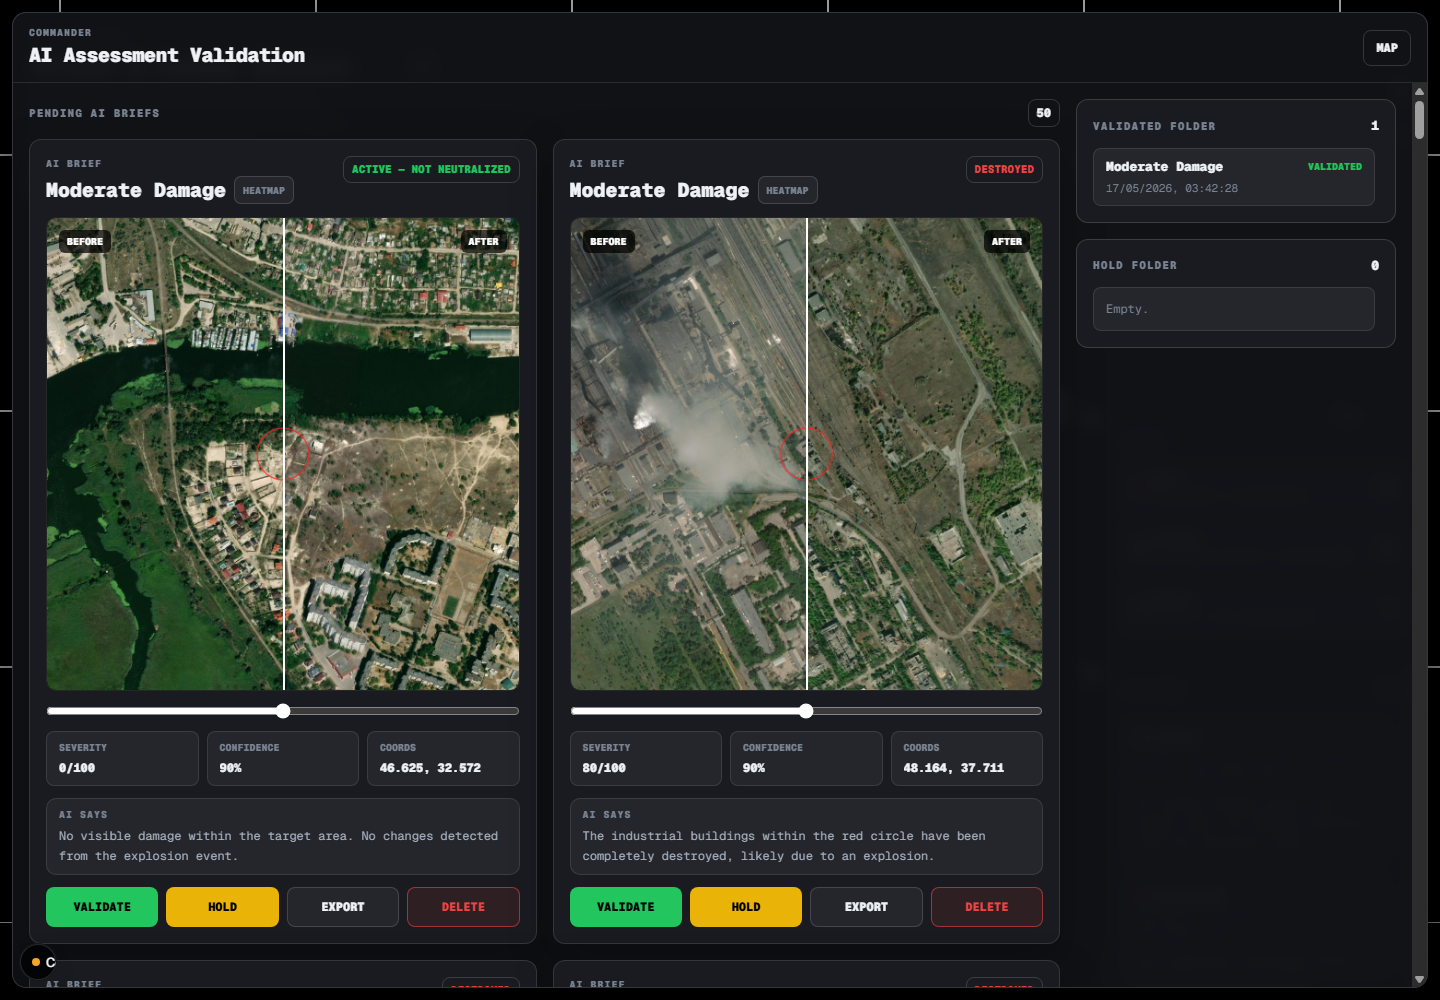
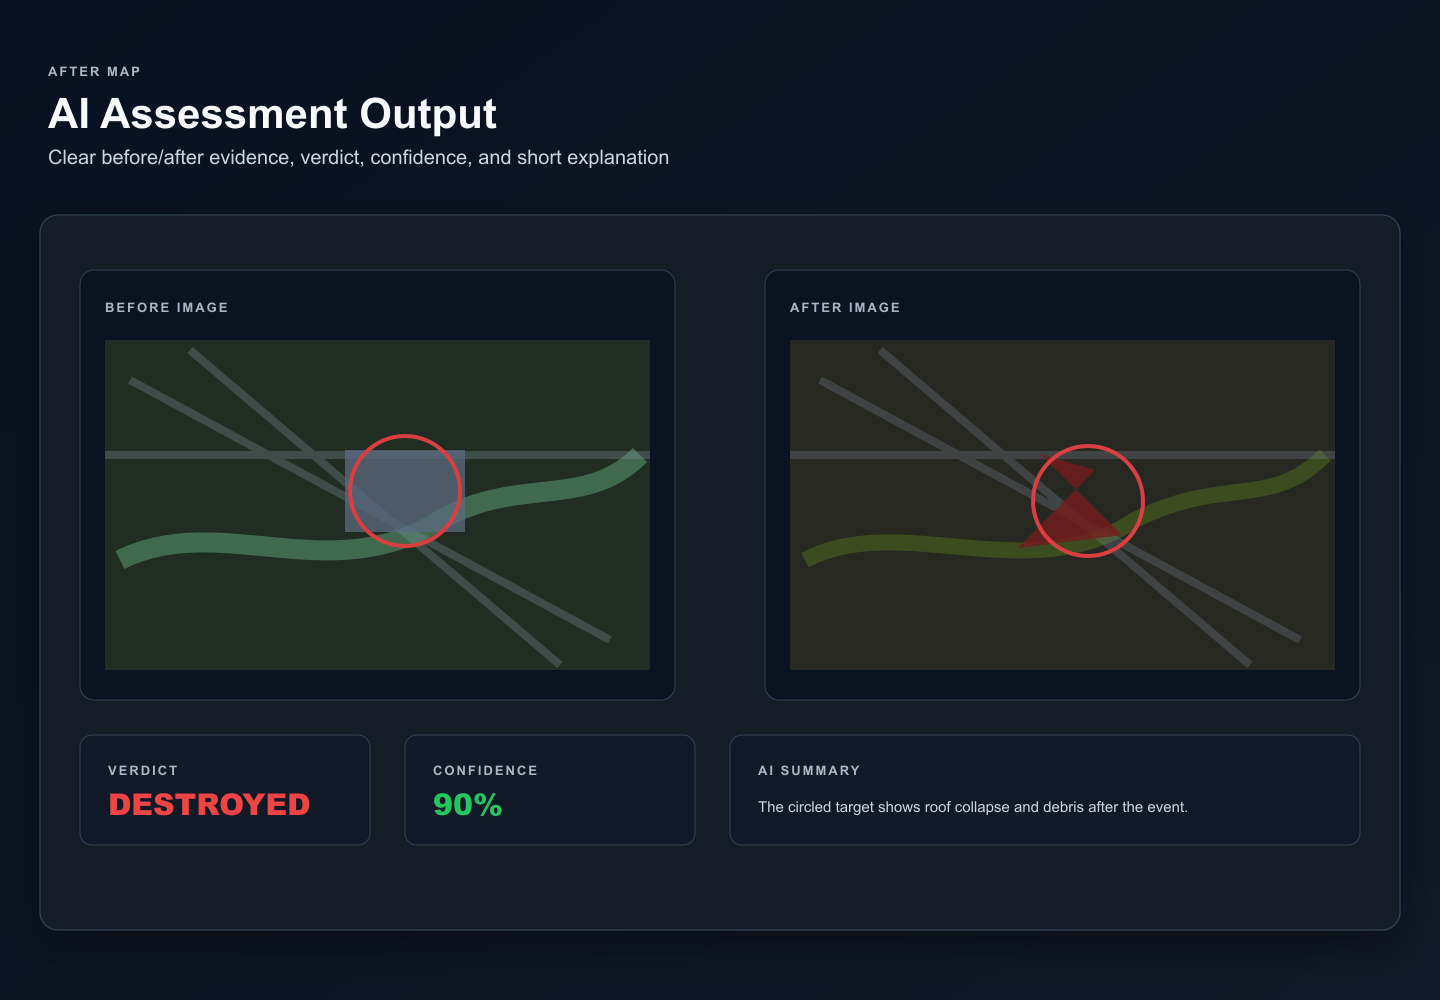
Improve setup docs and README screenshots

diff --git a/README.md b/README.md
@@ -126,10 +126,10 @@ This is version one. The pipeline is modular.
 
 | Component | Technology |
 |-----------|-----------|
-| Framework | Next.js 14 (App Router), TypeScript |
+| Framework | Next.js 16 (App Router), TypeScript |
 | Satellite imagery | ESA Sentinel-2 L2A via [Sentinel Hub Process API](https://www.sentinel-hub.com) |
 | Damage dataset | [UNOSAT Ukraine / Zenodo](https://zenodo.org/records/11385161) |
-| AI model | Claude (Anthropic) — multimodal vision |
+| AI model | OpenAI vision model via the Responses API |
 | Map | Custom slippy map, Esri World Imagery basemap |
 | Change detection | Client-side canvas pixel diff + Sobel edge strength heatmap |
 
@@ -151,17 +151,83 @@ npm install
 cp .env.example .env.local
 ```
 
-Fill in `.env.local`:
-- `ANTHROPIC_API_KEY` — from [console.anthropic.com](https://console.anthropic.com)
-- `SENTINELHUB_CLIENT_ID` + `SENTINELHUB_CLIENT_SECRET` — free account at [sentinel-hub.com](https://www.sentinel-hub.com), create an OAuth client
+Fill in `.env.local` with the credentials below. The file must be in the project root, next to `package.json`.
 
-### 3. Run
+```env
+OPENAI_API_KEY=your-openai-api-key-here
+OPENAI_MODEL=gpt-4.1-mini
+
+SENTINELHUB_CLIENT_ID=your-sentinel-hub-client-id
+SENTINELHUB_CLIENT_SECRET=your-sentinel-hub-client-secret
+SENTINELHUB_BASE_URL=https://services.sentinel-hub.com
+```
+
+Never commit `.env.local`. It is already ignored by Git.
+
+### 3. Where to get API keys
+
+#### OpenAI
+
+Used for AI image analysis in `/api/review`.
+
+1. Create or log in to an OpenAI Platform account: [https://platform.openai.com](https://platform.openai.com)
+2. Open the API keys page: [https://platform.openai.com/api-keys](https://platform.openai.com/api-keys)
+3. Click **Create new secret key**.
+4. Copy the key into `.env.local` as:
+
+```env
+OPENAI_API_KEY=your-openai-api-key-here
+```
+
+Official guide: [Where do I find my OpenAI API key?](https://help.openai.com/en/articles/4936850-where-do-i-find-my-openai-api-key)
+
+Optional model setting:
+
+```env
+OPENAI_MODEL=gpt-4.1-mini
+```
+
+Leave `OPENAI_MODEL` unchanged for the default setup.
+
+#### Sentinel Hub
+
+Used for satellite image generation in `/api/satellite/generate`.
+
+1. Create or log in to Sentinel Hub: [https://apps.sentinel-hub.com/dashboard/](https://apps.sentinel-hub.com/dashboard/)
+2. Open **User Settings** in the dashboard.
+3. Find **OAuth clients**.
+4. Create a new OAuth client.
+5. Copy the **Client ID** and **Client Secret** into `.env.local`:
+
+```env
+SENTINELHUB_CLIENT_ID=your-client-id
+SENTINELHUB_CLIENT_SECRET=your-client-secret
+SENTINELHUB_BASE_URL=https://services.sentinel-hub.com
+```
+
+Official auth docs: [Sentinel Hub authentication](https://docs.sentinel-hub.com/api/latest/api/overview/authentication/)
+
+### 4. Run
 
 ```bash
 npm run dev
 ```
 
 Open [http://localhost:3000](http://localhost:3000)
+
+### 5. Deploying
+
+If you deploy to Vercel or another host, add the same environment variables in the host's project settings:
+
+```env
+OPENAI_API_KEY
+OPENAI_MODEL
+SENTINELHUB_CLIENT_ID
+SENTINELHUB_CLIENT_SECRET
+SENTINELHUB_BASE_URL
+```
+
+For Vercel: open your project → **Settings** → **Environment Variables**.
 
 ---
 